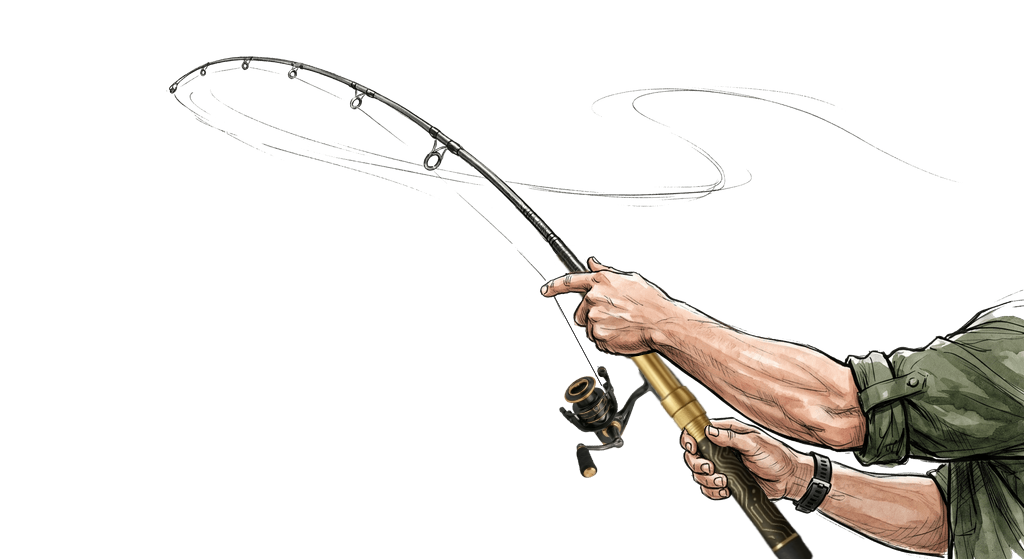
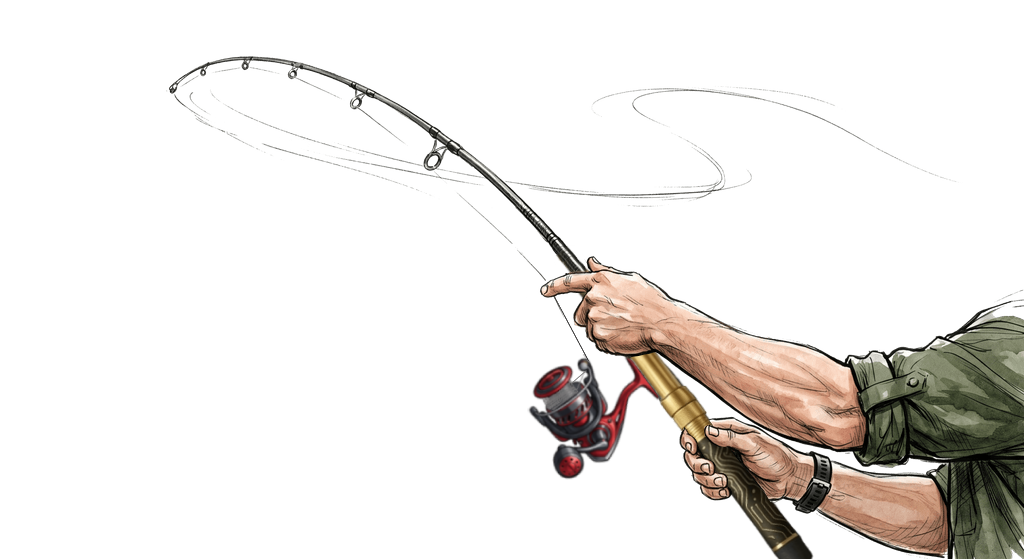
밸런스 v195: 물고기 힘·전투 난이도 전면 재설계
- 물고기 힘 = 어종 최대어 대비 상대크기 (최소어15=60, 최대어=4000, 곡선2.2)
- 잡어(최대30↓: 블루길·살치·자라·주꾸미)는 절대200 기준 → 항상 약한 방해꾼
- 전투속도: 힘4000 vs 제압2000 = 배율1.5 (아주 어렵게 간신히)
- 고랩이 대물 줄줄 끌던 문제 + 속도상한 0.016 평준화 문제 해결

Changed region(s): [[0.5, 0.6386, 0.6562, 0.8515]]

diff --git a/lib/ui_plaza.dart b/lib/ui_plaza.dart
@@ -3900,7 +3900,7 @@ class _PlazaScreenState extends State<PlazaScreen> with SingleTickerProviderStat
                   foregroundColor: Colors.black,
                   padding: const EdgeInsets.symmetric(vertical: 12)),
               icon: const Icon(Icons.add),
-              label: const Text('길드 만들기 (Lv.10, 10,000 P)',
+              label: const Text('길드 만들기 (Lv.5, 10,000 P)',
                   style: TextStyle(fontWeight: FontWeight.w900, fontSize: 14)),
               onPressed: () => _createGuildDialog(uid),
             ),
@@ -4525,7 +4525,7 @@ class _PlazaScreenState extends State<PlazaScreen> with SingleTickerProviderStat
               ),
             ),
             const SizedBox(height: 6),
-            const Text('조건: Lv.10 이상 · 생성 비용 10,000 P',
+            const Text('조건: Lv.5 이상 · 생성 비용 10,000 P',
                 style: TextStyle(color: _kGold, fontSize: 12, fontWeight: FontWeight.bold)),
           ],
         ),
@@ -4548,8 +4548,8 @@ class _PlazaScreenState extends State<PlazaScreen> with SingleTickerProviderStat
       _toast('길드 이름을 입력해주세요.');
       return;
     }
-    if (_level < 10) {
-      _yunseulSay('길드를 만드시게요? 멋져요! 😊\n길드 생성은 Lv.10부터 가능해요.\n조금 더 성장한 뒤 도전하세요!\n\n(현재 Lv.$_level)');
+    if (_level < 5) {
+      _yunseulSay('길드를 만드시게요? 멋져요! 😊\n길드 생성은 Lv.5부터 가능해요.\n조금 더 성장한 뒤 도전하세요!\n\n(현재 Lv.$_level)');
       return;
     }
     if (_gold < 10000) {

diff --git a/lib/app_version.dart b/lib/app_version.dart
@@ -13,7 +13,7 @@ import 'dart:html' as html;
 import 'package:flutter/material.dart';
 
 /// ⚠ 배포마다 올리는 빌드 식별자 (web/appver.json 과 같은 값으로 유지)
-const String kBuildId = '20260701-187';
+const String kBuildId = '20260701-195';
 
 bool _updateChecked = false;
 
